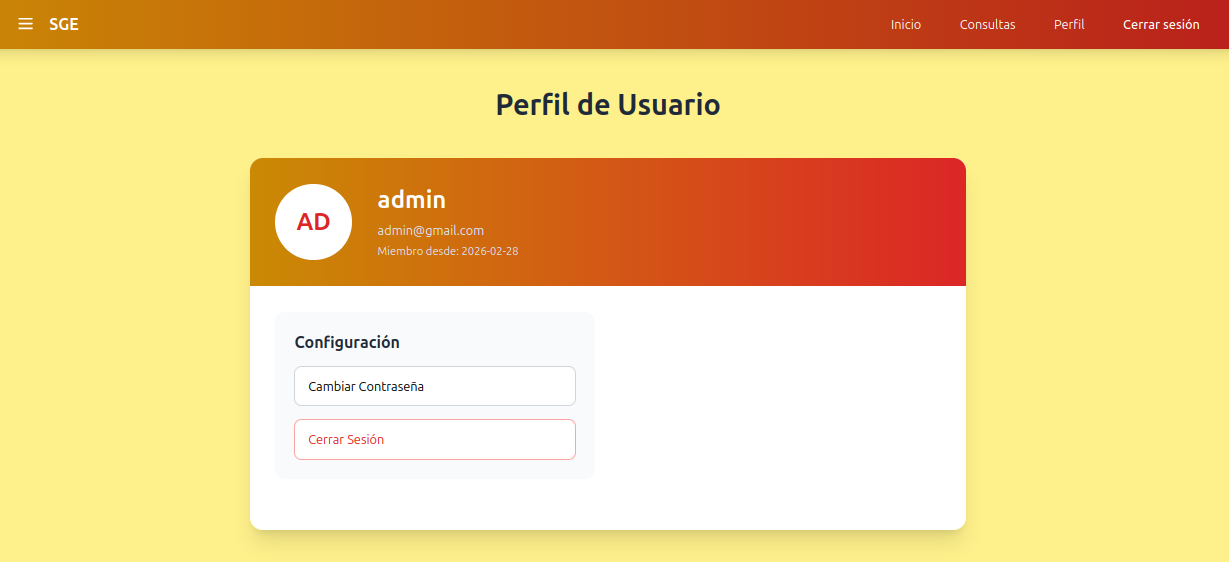
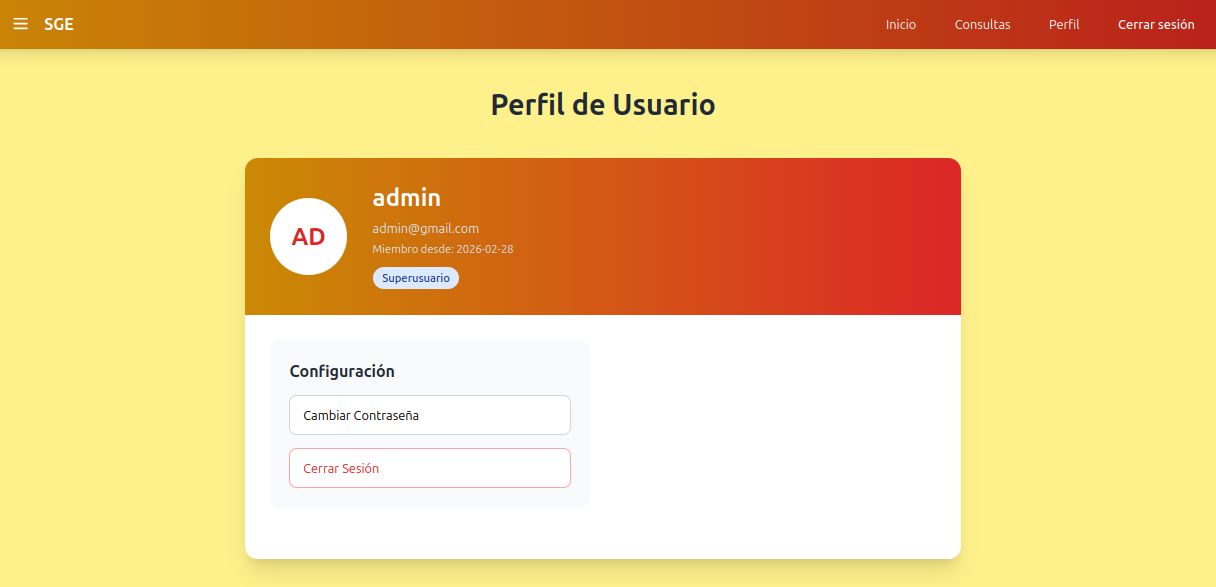
Actualizando README

diff --git a/frontend/src/pages/perfil.jsx b/frontend/src/pages/perfil.jsx
@@ -93,7 +93,7 @@ export function Perfil() {
 
   // Determinar el rol del usuario
   const getRol = () => {
-    if (userData?.is_superuser) return { nombre: 'Superusuario', color: 'bg-purple-100 text-purple-800' };
+    if (userData?.is_superuser) return { nombre: 'Superusuario', color: 'bg-blue-100 text-blue-900' };
     if (userData?.is_staff) return { nombre: 'Administrador', color: 'bg-blue-100 text-blue-800' };
     return { nombre: 'Usuario normal', color: 'bg-gray-100 text-gray-800' };
   };